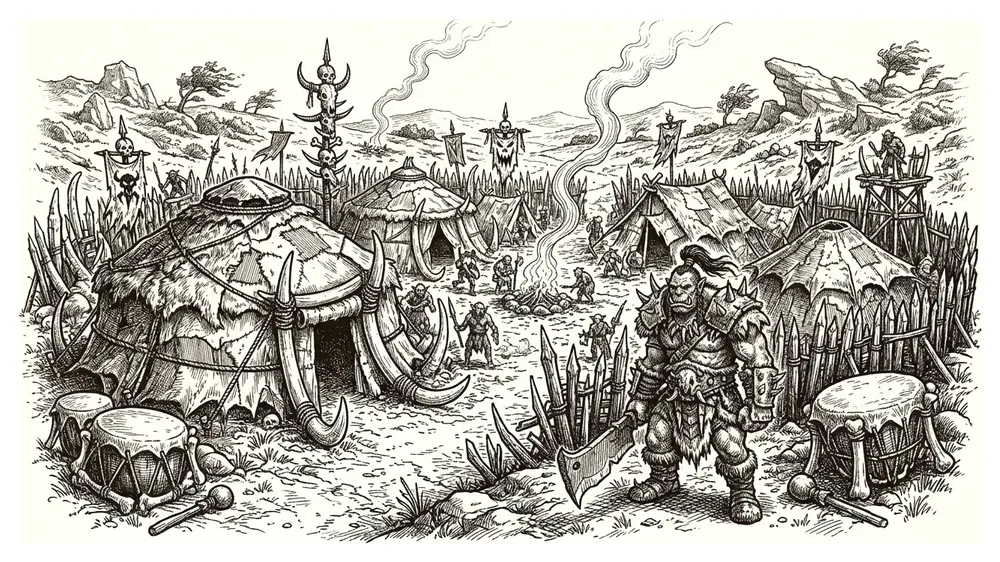
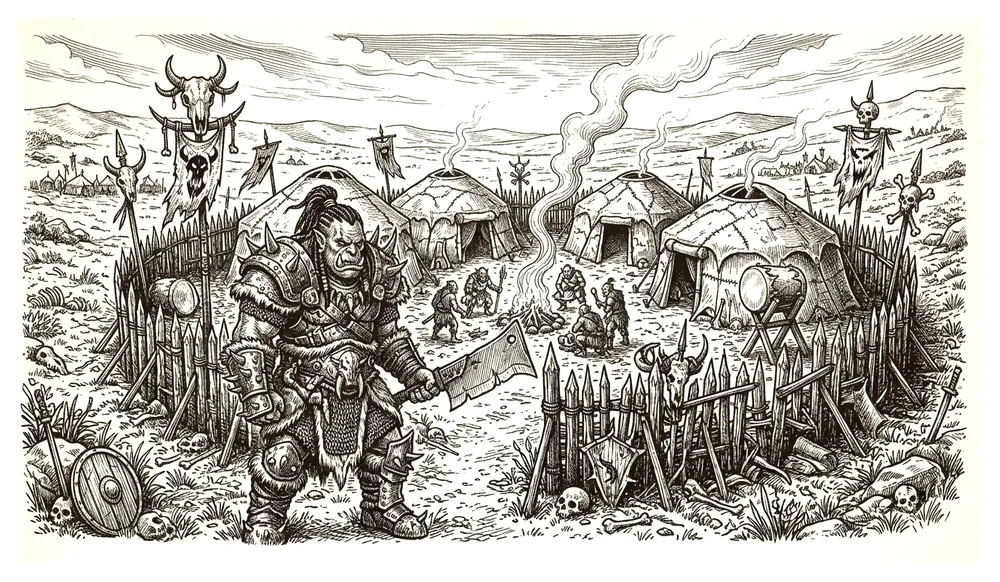
Panneau des missions : une seule gravure par image vraiment différente
Idan : « Y'en a beaucoup qui sont proches… Faut pas hésiter à les virer ».
On ne garde une variante que si elle apporte une autre image : orcs 2,
voleurs 3, ogres 2, château maudit 2, cimetière 2 ; une gravure par bête.
Les cerbères écartés avaient bien trois têtes : la raison corrigée (trop
proches). Le fond n'est laissé tel quel qu'en vraie pleine page.

Claude-Session: https://claude.ai/code/session_01EeJJTXzBZEvAnWuDndFYuJ

diff --git a/scripts/build-mission-art.js b/scripts/build-mission-art.js
@@ -19,40 +19,42 @@ const OUT=path.join(__dirname,"..","prototype-web","assets","missions");
 const WIDTH=1000;
 const QUALITY=0.8;
 
+// Une variante n'est gardée que si elle apporte une autre image (Idan, 2026-11-14 : « Y'en a beaucoup qui sont
+// proches… Faut pas hésiter à les virer »).
 const KEEP=[
   ["Orc_warrior_guarding_war_camp_a9cf545c.jpg","camp-orc-1"],
-  ["Orc_warrior_standing_guard_536c622a.jpg","camp-orc-2"],
-  ["Orc_warrior_standing_guard_894f7d18.jpg","camp-orc-3"],
+  ["Orc_warrior_standing_guard_894f7d18.jpg","camp-orc-2"],
   ["Thief_at_bandit_hideout_6808b4ff.jpg","camp-voleurs-1"],
   ["Thief_at_bandit_hideout_6f991c2c.jpg","camp-voleurs-2"],
-  ["Thief_guarding_bandit_hideout_39ee5d23.jpg","camp-voleurs-3"],
-  ["Thief_in_bandit_hideout_fb6e104f.jpg","camp-voleurs-4"],
+  ["Thief_in_bandit_hideout_fb6e104f.jpg","camp-voleurs-3"],
   ["Ogre_encampment_with_cauldron_an…_9a91bb9a.jpg","camp-ogre-1"],
   ["Ogre_in_encampment_with_weapons_0c709554.jpg","camp-ogre-2"],
-  ["Ogre_encampment_with_giant_cauldron_d0008d80.jpg","camp-ogre-3"],
-  ["Ogre_encampment_with_cauldron_an…_b50c0c65.jpg","camp-ogre-4"],
   ["Vampire_silhouette_in_ruined_castle_ccb42c11.jpg","chateau-maudit-1"],
   ["Vampire_in_ruined_castle_window_d9d4443a.jpg","chateau-maudit-2"],
-  ["Vampire_at_castle_window_c4c62323.jpg","chateau-maudit-3"],
   ["Hooded_figure_in_ancient_graveyard_93e85a0f.jpg","cimetiere-profane-1"],
   ["Hooded_figure_holding_lantern_gr…_1a5d46be.jpg","cimetiere-profane-2"],
   ["Pack_of_wolves_howling_aaf26095.jpg","chasse-loups-1"],
-  ["Wild_unicorn_rearing_in_forest_02373464.jpg","chasse-licorne-1"],
-  ["Wild_unicorn_rearing_in_forest_cddc5f4f.jpg","chasse-licorne-2"],
+  ["Wild_unicorn_rearing_in_forest_cddc5f4f.jpg","chasse-licorne-1"],
   ["Three-headed_hellhound_at_mine_0991b14a.jpg","chasse-cerbere-1"],
   ["Feral_mastiffs_snarling_near_manor_6302de4d.jpg","chasse-chiens-sauvages-1"],
-  ["Feral_mastiffs_snarling_ruined_m…_2cbc4bb3.jpg","chasse-chiens-sauvages-2"],
-  ["Giant_poisonous_butterflies_over…_d1bd2095.jpg","chasse-papillons-1"],
-  ["Poisonous_butterflies_over_flowe…_da0dfe2d.jpg","chasse-papillons-2"]
+  ["Giant_poisonous_butterflies_over…_d1bd2095.jpg","chasse-papillons-1"]
 ];
 // Écartées : les raisons servent pour la prochaine série.
 const REJECTED={
   "Ogre_encampment_with_cauldron_an…_08bb96c7.jpg":"fond noir tout autour : un rectangle sombre sur l'annonce, l'encre ne se pose plus sur le papier",
-  "Ogre_encampment_with_cauldron_an…_ef1e4da0.jpg":"presque la même que camp-ogre-3 (ogre assis à droite du chaudron) : une variante de plus sans rien de neuf",
-  "Cerberus_at_mine_entrance_30035809.jpg":"deux têtes seulement : un cerbère en a trois",
-  "Cerberus_at_mine_mouth_ed39f50f.jpg":"deux têtes seulement : un cerbère en a trois",
-  "Feral_mastiffs_snarling_near_manor_c85a0952.jpg":"presque la même que chasse-chiens-sauvages-2 (même château, même escalier)",
-  "Wild_unicorn_rearing_in_forest_a8e1f79b.jpg":"un lavis gris plutôt qu'une gravure : elle détonne à côté des autres"
+  "Orc_warrior_standing_guard_536c622a.jpg":"trop proche de camp-orc-1 (l'orc à droite, la yourte à gauche, les tambours)",
+  "Thief_guarding_bandit_hideout_39ee5d23.jpg":"trop proche de camp-voleurs-2 (la tour, le voleur accroupi à l'arbalète)",
+  "Ogre_encampment_with_giant_cauldron_d0008d80.jpg":"trop proche de camp-ogre-1 (l'ogre assis près du chaudron)",
+  "Ogre_encampment_with_cauldron_an…_ef1e4da0.jpg":"trop proche de camp-ogre-1 (l'ogre assis près du chaudron)",
+  "Ogre_encampment_with_cauldron_an…_b50c0c65.jpg":"trop proche de camp-ogre-2 (l'ogre debout, la massue)",
+  "Vampire_at_castle_window_c4c62323.jpg":"trop proche de chateau-maudit-1 (le château sur son rocher, la lune)",
+  "Cerberus_at_mine_entrance_30035809.jpg":"trop proche de chasse-cerbere-1 (le cerbère à la sortie de la mine)",
+  "Cerberus_at_mine_mouth_ed39f50f.jpg":"trop proche de chasse-cerbere-1 (le cerbère à la sortie de la mine)",
+  "Feral_mastiffs_snarling_near_manor_c85a0952.jpg":"trop proche de chasse-chiens-sauvages-1 (les molosses devant le château)",
+  "Feral_mastiffs_snarling_ruined_m…_2cbc4bb3.jpg":"trop proche de chasse-chiens-sauvages-1 (les molosses devant le château)",
+  "Wild_unicorn_rearing_in_forest_02373464.jpg":"trop proche de chasse-licorne-1 (la licorne cabrée dans la forêt)",
+  "Wild_unicorn_rearing_in_forest_a8e1f79b.jpg":"un lavis gris plutôt qu'une gravure, et la même licorne cabrée",
+  "Poisonous_butterflies_over_flowe…_da0dfe2d.jpg":"le même essaim que chasse-papillons-1, en pleine page plus sombre"
 };
 
 function listMissions(){
@@ -68,7 +70,7 @@ function whitePoint(file){
   const out=execFileSync("convert",[file,"-colorspace","Gray","-format","%[fx:p{4,4}] %[fx:p{w-5,4}] %[fx:p{4,h-5}] %[fx:p{w-5,h-5}]","info:"],{encoding:"utf8"});
   const v=out.trim().split(/\s+/).map(Number).sort((a,b)=>b-a);
   const paper=(v[0]+v[1])/2;
-  return paper<.88?1:Math.min(1,paper-.012);
+  return paper<.7?1:Math.min(1,paper-.012);
 }
 
 async function main(){

diff --git a/docs/design/17-one-shot-missions.md b/docs/design/17-one-shot-missions.md
@@ -296,9 +296,10 @@ ennemis, récompense, expiration…), la lettre du commanditaire s'il y en a une
   sinon celles de la mission (`missions[].illustrations` : les bêtes des chasses), sinon son illustration. Un camp peut en avoir plusieurs (Idan : « c'est plutôt pas mal
   d'avoir des images différentes pour les mêmes missions ») : chaque offre en tire une d'après son identifiant, toujours
   la même. Idan les dépose dans `media/background/Taverne/Missions/` ; on garde les bonnes (`scripts/build-mission-art.js`,
-  voir `docs/DEPLOYMENT.md`). Arrivées : les sept camps (gobelins 1, hommes-bêtes 1, orcs 3, voleurs 4, ogres 4,
-  cimetière profané 2, château maudit 3). Les bêtes : loups 1, licorne 2, cerbère 1 (trois têtes : les versions à deux têtes sont écartées), chiens sauvages 2,
-  papillons 2. À venir : les clients des gardes du corps.
+  voir `docs/DEPLOYMENT.md`). Arrivées : les sept camps (gobelins 1, hommes-bêtes 1, orcs 2, voleurs 3, ogres 2,
+  cimetière profané 2, château maudit 2) et les bêtes (loups, licorne, cerbère, chiens sauvages, papillons : 1 chacune).
+  Une variante n'est gardée que si elle apporte une autre image (Idan : « Y'en a beaucoup qui sont proches… Faut pas
+  hésiter à les virer ») ; les écartées et leur raison sont en tête de `scripts/build-mission-art.js`. À venir : les clients des gardes du corps.
 
 ## 14 — Points de combat et camps par peuple (Idan, 2026-11-01)
 
